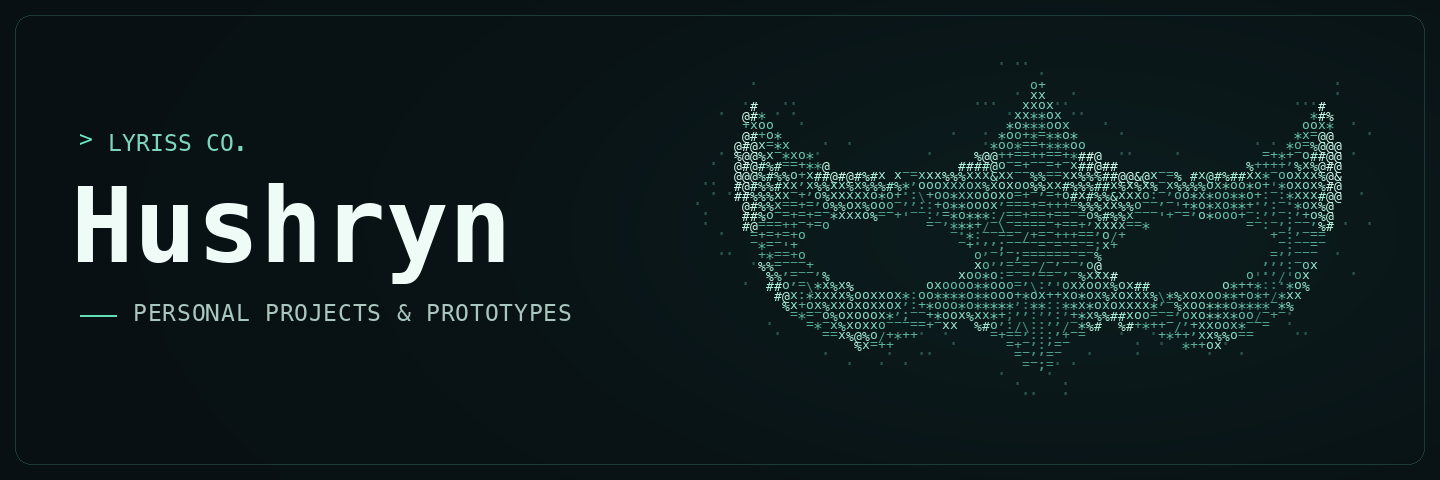
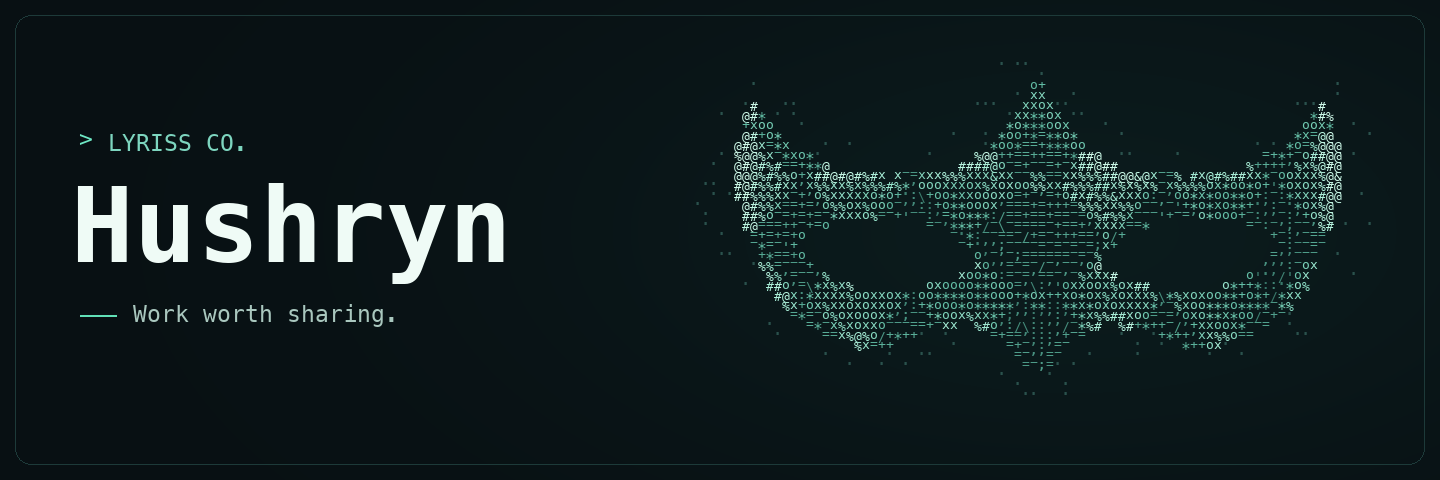
Set the profile tagline to Work worth sharing

Changed region(s): [[0.0938, 0.625, 0.4062, 0.6875]]

diff --git a/README.md b/README.md
@@ -1,4 +1,4 @@
-![Hushryn · Lyriss Co. — mint-green harlequin mask drawn in ASCII](assets/hushryn-ascii.png)
+![Hushryn · Lyriss Co. — Work worth sharing. Mint-green harlequin mask drawn in ASCII](assets/hushryn-ascii.png)
 
 <sub>[ASCII source](assets/arlekinoco-mask.txt)</sub>
 
